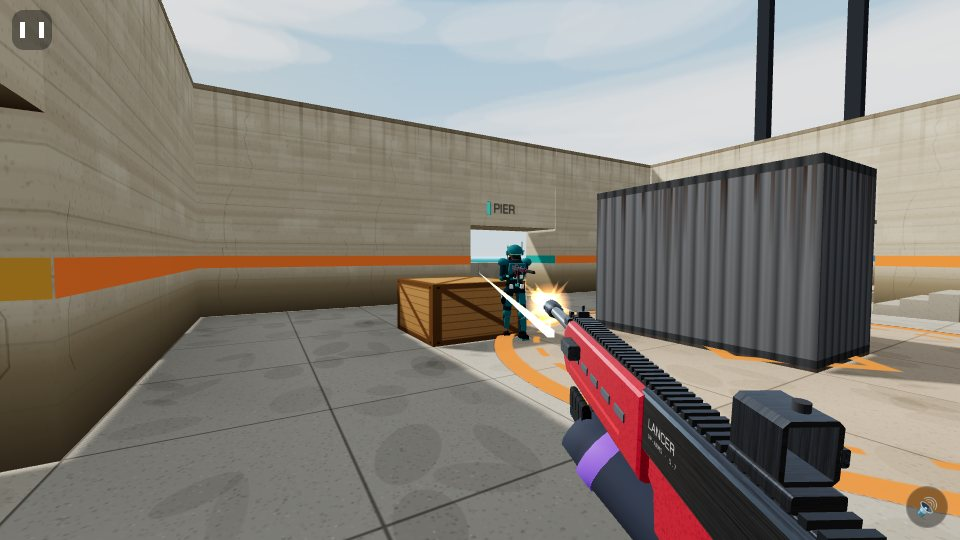
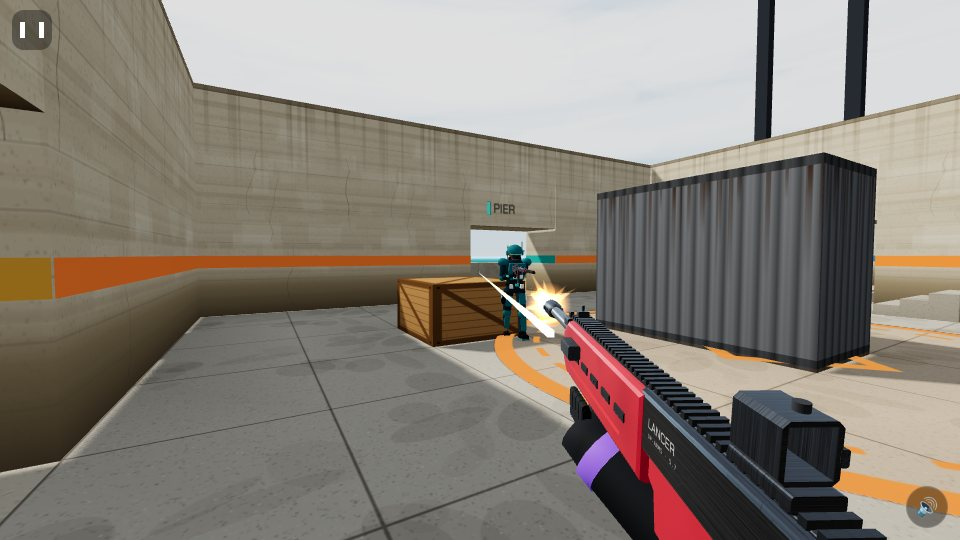
Duelpoint: revamp gun textures
Seamless 512 px finishes with relief, roughness and metalness maps:
brushed and scratched steel, stippled polymer, knurled rubber, mottled
cerakote, anodised aluminium, walnut with grain and pores, clear-coated
carbon twill, digital camo, and battle-worn paint chipped to bare metal.
Each gun gets its own finish. New cover and screenshots.

Claude-Session: https://claude.ai/code/session_015d1ng3DQVJS16EdJCEDKYL

diff --git a/pulsebox/public/games/duelpoint.html b/pulsebox/public/games/duelpoint.html
@@ -1353,54 +1353,115 @@ const GAME = {
      reflection map. The kit and the guns are in gunModel below; viewAnim moves the working parts in first person. */
   let GTX = null;
   const DECAL = {}, GMAT = {}, ICON = {};
+  /* Finishes. Every texture tiles seamlessly and is drawn once from the seeded random stream. Colour maps carry the look;
+     a second "data" canvas per finish carries relief in red (read as a bump map), roughness in green and metalness in blue,
+     so wear, smudges and scratches catch the light differently from the paint around them. */
   function gunTex() {
     if (GTX) return GTX;
-    const T = (w, h, fn, rep) => canvasTex(w, h, fn, rep);
+    const T = (w, h, fn, rep) => canvasTex(w, h, fn, rep), D = (w, h, fn, rep) => { const t = canvasTex(w, h, fn, rep); t.encoding = THREE.LinearEncoding; return t; };
+    const wrap = (w, h, x, y, fn) => { for (const dx of [-w, 0, w]) for (const dy of [-h, 0, h]) fn(x + dx, y + dy); };   // draw across the seams
+    const blots = (g, w, h, n, r0, r1, rgb, a) => { for (let i = 0; i < n; i++) { const x = R() * w, y = R() * h, r = r0 + R() * (r1 - r0), al = a * (.4 + R() * .6);
+      wrap(w, h, x, y, (px, py) => { if (px < -r || py < -r || px > w + r || py > h + r) return; const gr = g.createRadialGradient(px, py, 0, px, py, r); gr.addColorStop(0, `rgba(${rgb},${al})`); gr.addColorStop(1, `rgba(${rgb},0)`); g.fillStyle = gr; g.fillRect(px - r, py - r, r * 2, r * 2); }); } };
+    const specks = (g, w, h, n, rgbA, rgbB, a, s = 1) => { for (let i = 0; i < n; i++) { g.fillStyle = `rgba(${R() < .5 ? rgbA : rgbB},${a * R()})`; g.fillRect(Math.floor(R() * w), Math.floor(R() * h), s, s); } };
+    const scratches = (g, w, h, n, rgb, a, l0, l1, ang) => { g.lineCap = 'round'; for (let i = 0; i < n; i++) { const x = R() * w, y = R() * h, l = l0 + R() * (l1 - l0), t = ang == null ? R() * Math.PI : ang + (R() - .5) * .5, bend = (R() - .5) * l * .3;
+      g.strokeStyle = `rgba(${rgb},${a * (.5 + R() * .5)})`; g.lineWidth = .6 + R() * .9; wrap(w, h, x, y, (px, py) => { g.beginPath(); g.moveTo(px, py); g.quadraticCurveTo(px + Math.cos(t) * l / 2 - Math.sin(t) * bend, py + Math.sin(t) * l / 2 + Math.cos(t) * bend, px + Math.cos(t) * l, py + Math.sin(t) * l); g.stroke(); }); } };
+    const S = 512;
     GTX = {
-      brushed: T(256, 256, (g, w, h) => { g.fillStyle = '#8c8c8c'; g.fillRect(0, 0, w, h); for (let i = 0; i < 1100; i++) { g.fillStyle = R() < .5 ? `rgba(0,0,0,${.04 + R() * .09})` : `rgba(255,255,255,${.04 + R() * .08})`; g.fillRect(R() * w - 40, R() * h, 30 + R() * 170, 1); } }, [6, 6]),
-      stipple: T(128, 128, (g, w, h) => { g.fillStyle = '#7c7c7c'; g.fillRect(0, 0, w, h); for (let i = 0; i < 1600; i++) { g.fillStyle = R() < .5 ? 'rgba(0,0,0,.28)' : 'rgba(255,255,255,.13)'; g.beginPath(); g.arc(R() * w, R() * h, .6 + R() * 1.3, 0, 7); g.fill(); } }, [12, 12]),
-      cera: T(128, 128, (g, w, h) => { g.fillStyle = '#d0d0d0'; g.fillRect(0, 0, w, h); for (let i = 0; i < 2600; i++) { g.fillStyle = R() < .5 ? 'rgba(0,0,0,.07)' : 'rgba(255,255,255,.08)'; g.fillRect(R() * w, R() * h, 1 + R() * 2, 1 + R() * 2); } }, [10, 10]),
-      wood: T(256, 256, (g, w, h) => { g.fillStyle = '#80502a'; g.fillRect(0, 0, w, h); for (let i = 0; i < 80; i++) { const y = R() * h; g.strokeStyle = `rgba(${R() < .55 ? '45,22,8' : '170,110,60'},${.14 + R() * .26})`; g.lineWidth = .5 + R() * 2.5; g.beginPath(); g.moveTo(0, y); for (let x = 0; x <= w; x += 12) g.lineTo(x, y + Math.sin(x * .03 + i) * 4 + Math.sin(x * .12 + i * 2) * 1.4); g.stroke(); } }, [5, 5]),
-      carbon: T(64, 64, (g) => { for (let i = 0; i < 4; i++) for (let j = 0; j < 4; j++) { const on = (i + j) % 2, gr = on ? g.createLinearGradient(i * 16, 0, i * 16 + 16, 0) : g.createLinearGradient(0, j * 16, 0, j * 16 + 16); gr.addColorStop(0, '#3a3a40'); gr.addColorStop(.5, '#77777f'); gr.addColorStop(1, '#3a3a40'); g.fillStyle = gr; g.fillRect(i * 16, j * 16, 16, 16); } }, [36, 36]),
-      camo: T(128, 128, (g, w, h) => { g.fillStyle = '#2a8a75'; g.fillRect(0, 0, w, h); const cs = ['#3ee6c1', '#1b5248', '#1f2a33', '#30b496']; for (let i = 0; i < 170; i++) { g.fillStyle = cs[i % 4]; g.fillRect(Math.floor(R() * 16) * 8, Math.floor(R() * 16) * 8, 8 * (1 + Math.floor(R() * 3)), 8 * (1 + Math.floor(R() * 2))); } }, [8, 8]),
-      holes: T(64, 64, (g, w, h) => { g.fillStyle = '#5a5e66'; g.fillRect(0, 0, w, h); g.fillStyle = '#0a0b0d'; for (const [x, y] of [[16, 16], [48, 16], [16, 48], [48, 48]]) { g.beginPath(); g.arc(x, y, 9, 0, 7); g.fill(); } }, [1, 10]),
+      // machined steel: long brushing marks, faint soft patches, a few fine scratches
+      brushed: T(S, S, (g, w, h) => { g.fillStyle = '#8a8a8a'; g.fillRect(0, 0, w, h);
+        for (let i = 0; i < 3200; i++) { const y = Math.floor(R() * h), x = R() * w, l = 30 + R() * 340; g.fillStyle = R() < .5 ? `rgba(0,0,0,${.03 + R() * .08})` : `rgba(255,255,255,${.03 + R() * .07})`; g.fillRect(x, y, l, 1); g.fillRect(x - w, y, l, 1); }
+        blots(g, w, h, 16, 50, 150, '255,255,255', .05); blots(g, w, h, 16, 50, 150, '0,0,0', .06); scratches(g, w, h, 34, '230,230,230', .35, 8, 60); }, [3, 3]),
+      // its data: shinier along fresh scratches, duller where hands have smudged it
+      metalD: D(S, S, (g, w, h) => { g.fillStyle = 'rgb(128,200,255)'; g.fillRect(0, 0, w, h); for (let i = 0; i < 1400; i++) { const y = Math.floor(R() * h); g.fillStyle = `rgba(128,${170 + R() * 60 | 0},255,.5)`; g.fillRect(R() * w, y, 40 + R() * 300, 1); }
+        blots(g, w, h, 22, 30, 110, '128,255,255', .45); scratches(g, w, h, 34, '100,90,255', .9, 8, 60); }, [3, 3]),
+      // stippled polymer: raised dots, used for colour and relief
+      stipple: T(256, 256, (g, w, h) => { g.fillStyle = '#7a7a7a'; g.fillRect(0, 0, w, h); for (let i = 0; i < 3400; i++) { const x = R() * w, y = R() * h, r = .7 + R() * 1.6, c = R() < .55 ? 'rgba(20,20,20,.32)' : 'rgba(255,255,255,.2)'; g.fillStyle = c; wrap(w, h, x, y, (px, py) => { if (px < -3 || py < -3 || px > w + 3 || py > h + 3) return; g.beginPath(); g.arc(px, py, r, 0, 7); g.fill(); }); }
+        blots(g, w, h, 10, 30, 90, '0,0,0', .08); }, [14, 14]),
+      // diamond knurling for rubber and grip panels
+      knurl: T(128, 128, (g, w, h) => { g.fillStyle = '#8a8a8a'; g.fillRect(0, 0, w, h); g.lineWidth = 3.2; g.strokeStyle = 'rgba(0,0,0,.6)'; for (let i = -8; i <= 8; i++) { g.beginPath(); g.moveTo(i * 16, 0); g.lineTo(i * 16 + h, h); g.stroke(); g.beginPath(); g.moveTo(i * 16, h); g.lineTo(i * 16 + h, 0); g.stroke(); }
+        g.lineWidth = 1; g.strokeStyle = 'rgba(255,255,255,.18)'; for (let i = -8; i <= 8; i++) { g.beginPath(); g.moveTo(i * 16 + 2, 0); g.lineTo(i * 16 + 2 + h, h); g.stroke(); } specks(g, w, h, 900, '0,0,0', '255,255,255', .15); }, [60, 60]),
+      // cerakote: a sprayed ceramic paint, matte, softly mottled, with hairline scuffs
+      cera: T(S, S, (g, w, h) => { g.fillStyle = '#d6d6d6'; g.fillRect(0, 0, w, h); blots(g, w, h, 40, 30, 140, '0,0,0', .05); blots(g, w, h, 30, 30, 120, '255,255,255', .06);
+        specks(g, w, h, 16000, '0,0,0', '255,255,255', .09); scratches(g, w, h, 30, '255,255,255', .32, 6, 40); }, [4, 4]),
+      ceraD: D(S, S, (g, w, h) => { g.fillStyle = 'rgb(140,215,255)'; g.fillRect(0, 0, w, h); specks(g, w, h, 12000, '110,230,255', '170,200,255', .5); blots(g, w, h, 30, 40, 140, '140,170,255', .35); scratches(g, w, h, 30, '110,140,255', .9, 6, 40); }, [4, 4]),
+      // anodised aluminium: smooth, faint machining lines, a fine sparkle
+      anod: T(256, 256, (g, w, h) => { g.fillStyle = '#d2d2d2'; g.fillRect(0, 0, w, h); for (let y = 0; y < h; y += 2) { g.fillStyle = `rgba(${R() < .5 ? '0,0,0' : '255,255,255'},${.015 + R() * .03})`; g.fillRect(0, y, w, 1); }
+        specks(g, w, h, 5000, '0,0,0', '255,255,255', .07); blots(g, w, h, 10, 30, 100, '255,255,255', .05); }, [6, 6]),
+      anodD: D(256, 256, (g, w, h) => { g.fillStyle = 'rgb(128,120,255)'; g.fillRect(0, 0, w, h); specks(g, w, h, 4000, '128,80,255', '128,160,255', .6); blots(g, w, h, 12, 30, 90, '128,175,255', .4); }, [6, 6]),
+      // walnut: wavy grain with darker late-wood lines, ray flecks and open pores; also its own relief
+      wood: T(S, S, (g, w, h) => { const gr = g.createLinearGradient(0, 0, 0, h); gr.addColorStop(0, '#8a5630'); gr.addColorStop(.5, '#7a4826'); gr.addColorStop(1, '#8a5630'); g.fillStyle = gr; g.fillRect(0, 0, w, h);
+        const k1 = 2 * Math.PI / w; for (let i = 0; i < 170; i++) { const y = R() * h, a1 = 2 + R() * 7, a2 = R() * 2.5, p1 = R() * 7, p2 = R() * 7, f1 = 1 + Math.floor(R() * 2), f2 = 3 + Math.floor(R() * 4), dark = R() < .62;
+          g.strokeStyle = dark ? `rgba(48,22,8,${.12 + R() * .3})` : `rgba(190,128,70,${.08 + R() * .2})`; g.lineWidth = .6 + R() * (dark ? 3 : 2);
+          for (const dy of [-h, 0, h]) { g.beginPath(); for (let x = 0; x <= w; x += 8) { const yy = y + dy + Math.sin(x * k1 * f1 + p1) * a1 + Math.sin(x * k1 * f2 + p2) * a2; x ? g.lineTo(x, yy) : g.moveTo(x, yy); } g.stroke(); } }
+        for (let i = 0; i < 4000; i++) { g.fillStyle = `rgba(30,12,4,${.15 + R() * .3})`; g.fillRect(R() * w, R() * h, 2 + R() * 6, 1); }
+        for (let i = 0; i < 260; i++) { g.fillStyle = `rgba(220,160,100,${.06 + R() * .1})`; g.fillRect(R() * w, R() * h, 4 + R() * 10, 2 + R() * 2); }
+        blots(g, w, h, 14, 60, 200, '40,16,4', .12); blots(g, w, h, 10, 60, 160, '255,200,140', .06); }, [2.5, 2.5]),
+      // carbon fibre, 2/2 twill: each tow shaded round its width with fine filaments along it
+      carbon: T(256, 256, (g) => { const c = 16; for (let i = 0; i < 16; i++) for (let j = 0; j < 16; j++) { const hz = (i + j) % 4 < 2, x = i * c, y = j * c, gr = hz ? g.createLinearGradient(0, y, 0, y + c) : g.createLinearGradient(x, 0, x + c, 0);
+          gr.addColorStop(0, '#2a2a2f'); gr.addColorStop(.4, '#55555d'); gr.addColorStop(.55, '#606068'); gr.addColorStop(1, '#2e2e33'); g.fillStyle = gr; g.fillRect(x, y, c, c);
+          g.fillStyle = 'rgba(0,0,0,.18)'; for (let f = 1; f < c; f += 2) hz ? g.fillRect(x, y + f, c, .5) : g.fillRect(x + f, y, .5, c); } }, [14, 14]),
+      // digital camouflage over a teal base, lightly worn
+      camo: T(256, 256, (g, w, h) => { g.fillStyle = '#2a8a75'; g.fillRect(0, 0, w, h); const cs = ['#3ee6c1', '#1b5248', '#1f2a33', '#30b496'];
+        for (const [n, s] of [[90, 24], [160, 16], [260, 8]]) for (let i = 0; i < n; i++) { g.fillStyle = cs[Math.floor(R() * 4)]; const x = Math.floor(R() * w / 8) * 8, y = Math.floor(R() * h / 8) * 8, bw = s * (1 + Math.floor(R() * 2)), bh = s; wrap(w, h, x, y, (px, py) => g.fillRect(px, py, bw, bh)); }
+        specks(g, w, h, 6000, '0,0,0', '255,255,255', .12); scratches(g, w, h, 18, '210,240,235', .35, 6, 30); }, [7, 7]),
+      // vent holes: chamfered, with a lit lower lip
+      holes: T(128, 128, (g, w, h) => { g.fillStyle = '#50545c'; g.fillRect(0, 0, w, h); specks(g, w, h, 1500, '0,0,0', '255,255,255', .1);
+        for (const [x, y] of [[32, 32], [96, 32], [32, 96], [96, 96]]) { const gr = g.createRadialGradient(x, y + 2, 10, x, y, 22); gr.addColorStop(0, '#08090b'); gr.addColorStop(.7, '#08090b'); gr.addColorStop(.82, '#9aa0aa'); gr.addColorStop(1, 'rgba(80,84,92,0)'); g.fillStyle = gr; g.beginPath(); g.arc(x, y, 22, 0, 7); g.fill(); } }, [1, 10]),
     };
     return GTX;
   }
+  // battle-worn paint in a gun's own colour: chipped through to bare metal on corners and high spots, with scuffs
+  const WORN = {};
+  function wornTex(col) {
+    if (WORN[col]) return WORN[col];
+    const S = 512, chips = [], c = new THREE.Color(col);
+    for (let i = 0; i < 46; i++) { const cx = R() * S, cy = R() * S, n = 3 + Math.floor(R() * 8); for (let j = 0; j < n; j++) { const x = cx + (R() - .5) * 46, y = cy + (R() - .5) * 20, r = .8 + R() * (R() < .1 ? 6 : 2.6), k = 6 + Math.floor(R() * 4), pts = []; for (let q = 0; q < k; q++) { const a = q / k * TAU, rr = r * (.5 + R() * .7); pts.push([x + Math.cos(a) * rr * 1.5, y + Math.sin(a) * rr]); } chips.push(pts); } }
+    const scuffs = []; for (let i = 0; i < 46; i++) scuffs.push([R() * S, R() * S, 8 + R() * 50, (R() - .5) * .6]);
+    const draw = (g, paint, metal, scuff, rim) => { g.fillStyle = paint; g.fillRect(0, 0, S, S); for (const [x, y, l, t] of scuffs) for (const dx of [-S, 0, S]) for (const dy of [-S, 0, S]) { g.strokeStyle = scuff; g.lineWidth = 1; g.beginPath(); g.moveTo(x + dx, y + dy); g.lineTo(x + dx + Math.cos(t) * l, y + dy + Math.sin(t) * l); g.stroke(); }
+      for (const pts of chips) for (const dx of [-S, 0, S]) for (const dy of [-S, 0, S]) { g.beginPath(); pts.forEach(([x, y], i) => i ? g.lineTo(x + dx, y + dy) : g.moveTo(x + dx, y + dy)); g.closePath(); if (rim) { g.strokeStyle = rim; g.lineWidth = 1.6; g.stroke(); } g.fillStyle = metal; g.fill(); } };
+    const hex = '#' + c.getHexString(), map = canvasTex(S, S, (g, w, h) => { draw(g, hex, '#9a9ea6', 'rgba(255,255,255,.3)', 'rgba(0,0,0,.35)');
+      g.globalCompositeOperation = 'multiply'; const n = canvasTex.noise || (canvasTex.noise = (() => { const cv = document.createElement('canvas'); cv.width = cv.height = 256; const q = cv.getContext('2d'); q.fillStyle = '#fff'; q.fillRect(0, 0, 256, 256); for (let i = 0; i < 9000; i++) { const v = 205 + R() * 50 | 0; q.fillStyle = `rgb(${v},${v},${v})`; q.fillRect(R() * 256 | 0, R() * 256 | 0, 1, 1); } return cv; })());
+      for (const x of [0, 256]) for (const y of [0, 256]) g.drawImage(n, x, y); g.globalCompositeOperation = 'source-over'; }, [3, 3]);
+    const data = canvasTex(S, S, g => draw(g, 'rgb(200,225,50)', 'rgb(90,110,170)', 'rgba(170,150,120,.8)', 'rgb(150,230,50)'), [3, 3]); data.encoding = THREE.LinearEncoding;
+    return WORN[col] = { map, data };
+  }
+  const FINISH = { knife: 'cera', pip: 'cera', stub: 'wood', wasp: 'cera', quill: 'cera', hammer: 'wood', gnat: 'anod', hornet: 'camo', breaker: 'wood', thresher: 'worn', mako: 'anod', paladin: 'worn', vesper: 'carbon', lancer: 'cera', kite: 'cera', longbow: 'carbon', torrent: 'worn' };
+  const BUMP = .0007;   // relief strength; small, because a gun is small
   function gmats(k) {
     if (GMAT[k]) return GMAT[k];
     const W = GUNS[k], T = gunTex();
-    const std = (o, ei = 1) => { const m = new THREE.MeshStandardMaterial(o); if (X && X.env) { m.envMap = X.env; m.envMapIntensity = ei; } return m; };
+    const env = (m, ei) => { if (X && X.env) { m.envMap = X.env; m.envMapIntensity = ei; } return m; };
+    const std = (o, ei = 1) => env(new THREE.MeshStandardMaterial(o), ei);
     const basic = c => new THREE.MeshBasicMaterial({ color: c, toneMapped: false });
-    const fin = {
-      pip: std({ color: '#8f99a6', map: T.cera, roughness: .5, metalness: .35 }),
-      hornet: std({ color: '#ffffff', map: T.camo, roughness: .62, metalness: .1 }, .5),
-      breaker: std({ color: '#ffffff', map: T.wood, roughness: .45, metalness: 0 }, .45),
-      lancer: std({ color: '#d4323e', map: T.cera, roughness: .42, metalness: .3 }),
-      longbow: std({ color: '#9468dc', map: T.carbon, roughness: .3, metalness: .45 }, 1.1),
-      stub: std({ color: '#ffffff', map: T.wood, roughness: .45 }, .45), hammer: std({ color: '#ffd9a8', map: T.wood, roughness: .4 }, .5),
-      vesper: std({ color: '#d0509a', map: T.carbon, roughness: .3, metalness: .45 }, 1.1),
-    }[k] || std({ color: W.col, map: T.cera, roughness: .45, metalness: .3 });
+    const col = { pip: '#8f99a6', lancer: '#d4323e', longbow: '#9468dc', vesper: '#d0509a', hammer: '#ffd9a8', stub: '#ffffff', breaker: '#ffffff' }[k] || W.col, fk = FINISH[k] || 'cera';
+    let fin;
+    if (fk === 'wood') fin = std({ color: col, map: T.wood, bumpMap: T.wood, bumpScale: BUMP * 1.4, roughness: .42, metalness: 0 }, .5);
+    else if (fk === 'carbon') fin = env(new THREE.MeshPhysicalMaterial({ color: col, map: T.carbon, bumpMap: T.carbon, bumpScale: BUMP * .8, roughness: .4, metalness: .3, clearcoat: 1, clearcoatRoughness: .07 }), .9);
+    else if (fk === 'camo') fin = std({ color: '#ffffff', map: T.camo, roughnessMap: T.ceraD, bumpMap: T.ceraD, bumpScale: BUMP * .5, roughness: .75, metalness: .08 }, .5);
+    else if (fk === 'anod') fin = std({ color: col, map: T.anod, roughnessMap: T.anodD, roughness: .55, metalness: .55 }, .9);
+    else if (fk === 'worn') { const wt = wornTex(col); fin = std({ color: '#ffffff', map: wt.map, roughnessMap: wt.data, metalnessMap: wt.data, bumpMap: wt.data, bumpScale: BUMP * 1.2, roughness: 1, metalness: 1 }, .7); }
+    else fin = std({ color: col, map: T.cera, roughnessMap: T.ceraD, bumpMap: T.ceraD, bumpScale: BUMP * .5, roughness: .62, metalness: .25 }, .6);
+    const metalish = (c, r, mt, ei) => std({ color: c, map: T.brushed, roughnessMap: T.metalD, bumpMap: T.metalD, bumpScale: BUMP * .4, metalness: mt, roughness: r }, ei);
     const M2 = GMAT[k] = {
       fin,
-      metal: std({ color: '#3b4049', map: T.brushed, metalness: .85, roughness: .32 }),
-      dark: std({ color: '#1d2026', map: T.brushed, metalness: .7, roughness: .42 }),
-      steel: std({ color: '#a2a9b3', map: T.brushed, metalness: .95, roughness: .2 }, 1.2),
-      poly: std({ color: '#2b2e35', map: T.stipple, roughness: .86, metalness: .05 }, .4),
-      rubber: std({ color: '#121316', roughness: .95 }, .2),
-      heat: std({ color: '#ffffff', map: T.holes, metalness: .7, roughness: .4 }),
-      acc: std({ color: W.col, roughness: .4, metalness: .3 }),
-      brass: std({ color: '#d9a441', metalness: 1, roughness: .26 }, 1.3),
+      metal: metalish('#3b4049', .42, .85, 1),
+      dark: metalish('#1d2026', .52, .7, 1),
+      steel: metalish('#a2a9b3', .26, .95, 1.2),
+      poly: std({ color: '#2b2e35', map: T.stipple, bumpMap: T.stipple, bumpScale: BUMP, roughness: .86, metalness: .05 }, .4),
+      rubber: std({ color: '#1b1c20', map: T.knurl, bumpMap: T.knurl, bumpScale: BUMP * 1.2, roughness: .95 }, .2),
+      heat: std({ color: '#ffffff', map: T.holes, bumpMap: T.holes, bumpScale: BUMP * 2, metalness: .7, roughness: .4 }),
+      acc: std({ color: W.col, map: T.anod, roughnessMap: T.anodD, roughness: .5, metalness: .4 }, .8),
+      brass: std({ color: '#d9a441', map: T.brushed, metalness: 1, roughness: .26 }, 1.3),
       shell: std({ color: '#b8262a', roughness: .5 }, .5),
       lens: std({ color: '#0d2633', metalness: 1, roughness: .02, emissive: k === 'longbow' ? '#3a1866' : '#0b3550', emissiveIntensity: .8 }, 2),
       glass: std({ color: '#9fdcff', transparent: true, opacity: .2, metalness: 1, roughness: 0, depthWrite: false }, 2),
       glow: basic(W.col), tritium: basic('#7dff9a'), red: basic('#ff2a3a'), lamp: basic('#fff4d6'),
-      glove: std({ color: '#24272e', map: T.stipple, roughness: .9 }, .3),
-      sleeve: std({ color: '#323a4a', roughness: .8 }, .3),
+      glove: std({ color: '#24272e', map: T.stipple, bumpMap: T.stipple, bumpScale: BUMP * .7, roughness: .9 }, .3),
+      sleeve: std({ color: '#323a4a', map: T.knurl, roughness: .8 }, .3),
     };
     // plain colours are read as linear light, which washes strong colours out: convert the ones meant to be seen as picked
     for (const q of ['fin', 'acc', 'glow', 'tritium', 'red', 'lamp', 'sleeve', 'glove', 'shell', 'brass']) M2[q].color.convertSRGBToLinear();
-    M2.fin.envMapIntensity = Math.min(M2.fin.envMapIntensity, .6);
+    M2.fin.envMapIntensity = Math.min(M2.fin.envMapIntensity, fk === 'carbon' ? .9 : .6);
     return M2;
   }
   // merge the plain meshes under a group into one mesh per material, so a gun is a handful of draw calls, not hundreds
@@ -1462,7 +1523,7 @@ const GAME = {
       for (const s of [1, -1]) add(new THREE.PlaneGeometry(w, h), mat, sx * s, y, z, 0, s * Math.PI / 2, 0);
     };
     // vented shroud: holes kept round by scaling the pattern to the tube (8 rows round it, one every 2.4 cm along it)
-    const vent = L => { const key = 'vent' + Math.round(L * 1000); if (!GMAT[key]) { const t = gunTex().holes.clone(); t.needsUpdate = true; t.repeat.set(4, Math.max(2, Math.round(L / .024))); GMAT[key] = new THREE.MeshStandardMaterial({ color: '#ffffff', map: t, metalness: .7, roughness: .4, envMap: X && X.env, envMapIntensity: .8 }); } return GMAT[key]; };
+    const vent = L => { const key = 'vent' + Math.round(L * 1000); if (!GMAT[key]) { const t = gunTex().holes.clone(); t.needsUpdate = true; t.repeat.set(4, Math.max(2, Math.round(L / .024))); GMAT[key] = new THREE.MeshStandardMaterial({ color: '#ffffff', map: t, bumpMap: t, bumpScale: BUMP * 2, metalness: .7, roughness: .4, envMap: X && X.env, envMapIntensity: .8 }); } return GMAT[key]; };
     const group = (x, y, z, rx = 0) => { const g = new THREE.Group(); g.position.set(x, y, z); g.rotation.x = rx; g.userData.p0 = g.position.clone(); G.add(g); return g; };
     // sights and gadgets
     const holo = (z, y) => {   // a window sight: hooded frame, glass, a ring reticle

diff --git a/pulsebox/src/games/duelpoint/76-guns.js b/pulsebox/src/games/duelpoint/76-guns.js
@@ -3,54 +3,115 @@
      reflection map. The kit and the guns are in gunModel below; viewAnim moves the working parts in first person. */
   let GTX = null;
   const DECAL = {}, GMAT = {}, ICON = {};
+  /* Finishes. Every texture tiles seamlessly and is drawn once from the seeded random stream. Colour maps carry the look;
+     a second "data" canvas per finish carries relief in red (read as a bump map), roughness in green and metalness in blue,
+     so wear, smudges and scratches catch the light differently from the paint around them. */
   function gunTex() {
     if (GTX) return GTX;
-    const T = (w, h, fn, rep) => canvasTex(w, h, fn, rep);
+    const T = (w, h, fn, rep) => canvasTex(w, h, fn, rep), D = (w, h, fn, rep) => { const t = canvasTex(w, h, fn, rep); t.encoding = THREE.LinearEncoding; return t; };
+    const wrap = (w, h, x, y, fn) => { for (const dx of [-w, 0, w]) for (const dy of [-h, 0, h]) fn(x + dx, y + dy); };   // draw across the seams
+    const blots = (g, w, h, n, r0, r1, rgb, a) => { for (let i = 0; i < n; i++) { const x = R() * w, y = R() * h, r = r0 + R() * (r1 - r0), al = a * (.4 + R() * .6);
+      wrap(w, h, x, y, (px, py) => { if (px < -r || py < -r || px > w + r || py > h + r) return; const gr = g.createRadialGradient(px, py, 0, px, py, r); gr.addColorStop(0, `rgba(${rgb},${al})`); gr.addColorStop(1, `rgba(${rgb},0)`); g.fillStyle = gr; g.fillRect(px - r, py - r, r * 2, r * 2); }); } };
+    const specks = (g, w, h, n, rgbA, rgbB, a, s = 1) => { for (let i = 0; i < n; i++) { g.fillStyle = `rgba(${R() < .5 ? rgbA : rgbB},${a * R()})`; g.fillRect(Math.floor(R() * w), Math.floor(R() * h), s, s); } };
+    const scratches = (g, w, h, n, rgb, a, l0, l1, ang) => { g.lineCap = 'round'; for (let i = 0; i < n; i++) { const x = R() * w, y = R() * h, l = l0 + R() * (l1 - l0), t = ang == null ? R() * Math.PI : ang + (R() - .5) * .5, bend = (R() - .5) * l * .3;
+      g.strokeStyle = `rgba(${rgb},${a * (.5 + R() * .5)})`; g.lineWidth = .6 + R() * .9; wrap(w, h, x, y, (px, py) => { g.beginPath(); g.moveTo(px, py); g.quadraticCurveTo(px + Math.cos(t) * l / 2 - Math.sin(t) * bend, py + Math.sin(t) * l / 2 + Math.cos(t) * bend, px + Math.cos(t) * l, py + Math.sin(t) * l); g.stroke(); }); } };
+    const S = 512;
     GTX = {
-      brushed: T(256, 256, (g, w, h) => { g.fillStyle = '#8c8c8c'; g.fillRect(0, 0, w, h); for (let i = 0; i < 1100; i++) { g.fillStyle = R() < .5 ? `rgba(0,0,0,${.04 + R() * .09})` : `rgba(255,255,255,${.04 + R() * .08})`; g.fillRect(R() * w - 40, R() * h, 30 + R() * 170, 1); } }, [6, 6]),
-      stipple: T(128, 128, (g, w, h) => { g.fillStyle = '#7c7c7c'; g.fillRect(0, 0, w, h); for (let i = 0; i < 1600; i++) { g.fillStyle = R() < .5 ? 'rgba(0,0,0,.28)' : 'rgba(255,255,255,.13)'; g.beginPath(); g.arc(R() * w, R() * h, .6 + R() * 1.3, 0, 7); g.fill(); } }, [12, 12]),
-      cera: T(128, 128, (g, w, h) => { g.fillStyle = '#d0d0d0'; g.fillRect(0, 0, w, h); for (let i = 0; i < 2600; i++) { g.fillStyle = R() < .5 ? 'rgba(0,0,0,.07)' : 'rgba(255,255,255,.08)'; g.fillRect(R() * w, R() * h, 1 + R() * 2, 1 + R() * 2); } }, [10, 10]),
-      wood: T(256, 256, (g, w, h) => { g.fillStyle = '#80502a'; g.fillRect(0, 0, w, h); for (let i = 0; i < 80; i++) { const y = R() * h; g.strokeStyle = `rgba(${R() < .55 ? '45,22,8' : '170,110,60'},${.14 + R() * .26})`; g.lineWidth = .5 + R() * 2.5; g.beginPath(); g.moveTo(0, y); for (let x = 0; x <= w; x += 12) g.lineTo(x, y + Math.sin(x * .03 + i) * 4 + Math.sin(x * .12 + i * 2) * 1.4); g.stroke(); } }, [5, 5]),
-      carbon: T(64, 64, (g) => { for (let i = 0; i < 4; i++) for (let j = 0; j < 4; j++) { const on = (i + j) % 2, gr = on ? g.createLinearGradient(i * 16, 0, i * 16 + 16, 0) : g.createLinearGradient(0, j * 16, 0, j * 16 + 16); gr.addColorStop(0, '#3a3a40'); gr.addColorStop(.5, '#77777f'); gr.addColorStop(1, '#3a3a40'); g.fillStyle = gr; g.fillRect(i * 16, j * 16, 16, 16); } }, [36, 36]),
-      camo: T(128, 128, (g, w, h) => { g.fillStyle = '#2a8a75'; g.fillRect(0, 0, w, h); const cs = ['#3ee6c1', '#1b5248', '#1f2a33', '#30b496']; for (let i = 0; i < 170; i++) { g.fillStyle = cs[i % 4]; g.fillRect(Math.floor(R() * 16) * 8, Math.floor(R() * 16) * 8, 8 * (1 + Math.floor(R() * 3)), 8 * (1 + Math.floor(R() * 2))); } }, [8, 8]),
-      holes: T(64, 64, (g, w, h) => { g.fillStyle = '#5a5e66'; g.fillRect(0, 0, w, h); g.fillStyle = '#0a0b0d'; for (const [x, y] of [[16, 16], [48, 16], [16, 48], [48, 48]]) { g.beginPath(); g.arc(x, y, 9, 0, 7); g.fill(); } }, [1, 10]),
+      // machined steel: long brushing marks, faint soft patches, a few fine scratches
+      brushed: T(S, S, (g, w, h) => { g.fillStyle = '#8a8a8a'; g.fillRect(0, 0, w, h);
+        for (let i = 0; i < 3200; i++) { const y = Math.floor(R() * h), x = R() * w, l = 30 + R() * 340; g.fillStyle = R() < .5 ? `rgba(0,0,0,${.03 + R() * .08})` : `rgba(255,255,255,${.03 + R() * .07})`; g.fillRect(x, y, l, 1); g.fillRect(x - w, y, l, 1); }
+        blots(g, w, h, 16, 50, 150, '255,255,255', .05); blots(g, w, h, 16, 50, 150, '0,0,0', .06); scratches(g, w, h, 34, '230,230,230', .35, 8, 60); }, [3, 3]),
+      // its data: shinier along fresh scratches, duller where hands have smudged it
+      metalD: D(S, S, (g, w, h) => { g.fillStyle = 'rgb(128,200,255)'; g.fillRect(0, 0, w, h); for (let i = 0; i < 1400; i++) { const y = Math.floor(R() * h); g.fillStyle = `rgba(128,${170 + R() * 60 | 0},255,.5)`; g.fillRect(R() * w, y, 40 + R() * 300, 1); }
+        blots(g, w, h, 22, 30, 110, '128,255,255', .45); scratches(g, w, h, 34, '100,90,255', .9, 8, 60); }, [3, 3]),
+      // stippled polymer: raised dots, used for colour and relief
+      stipple: T(256, 256, (g, w, h) => { g.fillStyle = '#7a7a7a'; g.fillRect(0, 0, w, h); for (let i = 0; i < 3400; i++) { const x = R() * w, y = R() * h, r = .7 + R() * 1.6, c = R() < .55 ? 'rgba(20,20,20,.32)' : 'rgba(255,255,255,.2)'; g.fillStyle = c; wrap(w, h, x, y, (px, py) => { if (px < -3 || py < -3 || px > w + 3 || py > h + 3) return; g.beginPath(); g.arc(px, py, r, 0, 7); g.fill(); }); }
+        blots(g, w, h, 10, 30, 90, '0,0,0', .08); }, [14, 14]),
+      // diamond knurling for rubber and grip panels
+      knurl: T(128, 128, (g, w, h) => { g.fillStyle = '#8a8a8a'; g.fillRect(0, 0, w, h); g.lineWidth = 3.2; g.strokeStyle = 'rgba(0,0,0,.6)'; for (let i = -8; i <= 8; i++) { g.beginPath(); g.moveTo(i * 16, 0); g.lineTo(i * 16 + h, h); g.stroke(); g.beginPath(); g.moveTo(i * 16, h); g.lineTo(i * 16 + h, 0); g.stroke(); }
+        g.lineWidth = 1; g.strokeStyle = 'rgba(255,255,255,.18)'; for (let i = -8; i <= 8; i++) { g.beginPath(); g.moveTo(i * 16 + 2, 0); g.lineTo(i * 16 + 2 + h, h); g.stroke(); } specks(g, w, h, 900, '0,0,0', '255,255,255', .15); }, [60, 60]),
+      // cerakote: a sprayed ceramic paint, matte, softly mottled, with hairline scuffs
+      cera: T(S, S, (g, w, h) => { g.fillStyle = '#d6d6d6'; g.fillRect(0, 0, w, h); blots(g, w, h, 40, 30, 140, '0,0,0', .05); blots(g, w, h, 30, 30, 120, '255,255,255', .06);
+        specks(g, w, h, 16000, '0,0,0', '255,255,255', .09); scratches(g, w, h, 30, '255,255,255', .32, 6, 40); }, [4, 4]),
+      ceraD: D(S, S, (g, w, h) => { g.fillStyle = 'rgb(140,215,255)'; g.fillRect(0, 0, w, h); specks(g, w, h, 12000, '110,230,255', '170,200,255', .5); blots(g, w, h, 30, 40, 140, '140,170,255', .35); scratches(g, w, h, 30, '110,140,255', .9, 6, 40); }, [4, 4]),
+      // anodised aluminium: smooth, faint machining lines, a fine sparkle
+      anod: T(256, 256, (g, w, h) => { g.fillStyle = '#d2d2d2'; g.fillRect(0, 0, w, h); for (let y = 0; y < h; y += 2) { g.fillStyle = `rgba(${R() < .5 ? '0,0,0' : '255,255,255'},${.015 + R() * .03})`; g.fillRect(0, y, w, 1); }
+        specks(g, w, h, 5000, '0,0,0', '255,255,255', .07); blots(g, w, h, 10, 30, 100, '255,255,255', .05); }, [6, 6]),
+      anodD: D(256, 256, (g, w, h) => { g.fillStyle = 'rgb(128,120,255)'; g.fillRect(0, 0, w, h); specks(g, w, h, 4000, '128,80,255', '128,160,255', .6); blots(g, w, h, 12, 30, 90, '128,175,255', .4); }, [6, 6]),
+      // walnut: wavy grain with darker late-wood lines, ray flecks and open pores; also its own relief
+      wood: T(S, S, (g, w, h) => { const gr = g.createLinearGradient(0, 0, 0, h); gr.addColorStop(0, '#8a5630'); gr.addColorStop(.5, '#7a4826'); gr.addColorStop(1, '#8a5630'); g.fillStyle = gr; g.fillRect(0, 0, w, h);
+        const k1 = 2 * Math.PI / w; for (let i = 0; i < 170; i++) { const y = R() * h, a1 = 2 + R() * 7, a2 = R() * 2.5, p1 = R() * 7, p2 = R() * 7, f1 = 1 + Math.floor(R() * 2), f2 = 3 + Math.floor(R() * 4), dark = R() < .62;
+          g.strokeStyle = dark ? `rgba(48,22,8,${.12 + R() * .3})` : `rgba(190,128,70,${.08 + R() * .2})`; g.lineWidth = .6 + R() * (dark ? 3 : 2);
+          for (const dy of [-h, 0, h]) { g.beginPath(); for (let x = 0; x <= w; x += 8) { const yy = y + dy + Math.sin(x * k1 * f1 + p1) * a1 + Math.sin(x * k1 * f2 + p2) * a2; x ? g.lineTo(x, yy) : g.moveTo(x, yy); } g.stroke(); } }
+        for (let i = 0; i < 4000; i++) { g.fillStyle = `rgba(30,12,4,${.15 + R() * .3})`; g.fillRect(R() * w, R() * h, 2 + R() * 6, 1); }
+        for (let i = 0; i < 260; i++) { g.fillStyle = `rgba(220,160,100,${.06 + R() * .1})`; g.fillRect(R() * w, R() * h, 4 + R() * 10, 2 + R() * 2); }
+        blots(g, w, h, 14, 60, 200, '40,16,4', .12); blots(g, w, h, 10, 60, 160, '255,200,140', .06); }, [2.5, 2.5]),
+      // carbon fibre, 2/2 twill: each tow shaded round its width with fine filaments along it
+      carbon: T(256, 256, (g) => { const c = 16; for (let i = 0; i < 16; i++) for (let j = 0; j < 16; j++) { const hz = (i + j) % 4 < 2, x = i * c, y = j * c, gr = hz ? g.createLinearGradient(0, y, 0, y + c) : g.createLinearGradient(x, 0, x + c, 0);
+          gr.addColorStop(0, '#2a2a2f'); gr.addColorStop(.4, '#55555d'); gr.addColorStop(.55, '#606068'); gr.addColorStop(1, '#2e2e33'); g.fillStyle = gr; g.fillRect(x, y, c, c);
+          g.fillStyle = 'rgba(0,0,0,.18)'; for (let f = 1; f < c; f += 2) hz ? g.fillRect(x, y + f, c, .5) : g.fillRect(x + f, y, .5, c); } }, [14, 14]),
+      // digital camouflage over a teal base, lightly worn
+      camo: T(256, 256, (g, w, h) => { g.fillStyle = '#2a8a75'; g.fillRect(0, 0, w, h); const cs = ['#3ee6c1', '#1b5248', '#1f2a33', '#30b496'];
+        for (const [n, s] of [[90, 24], [160, 16], [260, 8]]) for (let i = 0; i < n; i++) { g.fillStyle = cs[Math.floor(R() * 4)]; const x = Math.floor(R() * w / 8) * 8, y = Math.floor(R() * h / 8) * 8, bw = s * (1 + Math.floor(R() * 2)), bh = s; wrap(w, h, x, y, (px, py) => g.fillRect(px, py, bw, bh)); }
+        specks(g, w, h, 6000, '0,0,0', '255,255,255', .12); scratches(g, w, h, 18, '210,240,235', .35, 6, 30); }, [7, 7]),
+      // vent holes: chamfered, with a lit lower lip
+      holes: T(128, 128, (g, w, h) => { g.fillStyle = '#50545c'; g.fillRect(0, 0, w, h); specks(g, w, h, 1500, '0,0,0', '255,255,255', .1);
+        for (const [x, y] of [[32, 32], [96, 32], [32, 96], [96, 96]]) { const gr = g.createRadialGradient(x, y + 2, 10, x, y, 22); gr.addColorStop(0, '#08090b'); gr.addColorStop(.7, '#08090b'); gr.addColorStop(.82, '#9aa0aa'); gr.addColorStop(1, 'rgba(80,84,92,0)'); g.fillStyle = gr; g.beginPath(); g.arc(x, y, 22, 0, 7); g.fill(); } }, [1, 10]),
     };
     return GTX;
   }
+  // battle-worn paint in a gun's own colour: chipped through to bare metal on corners and high spots, with scuffs
+  const WORN = {};
+  function wornTex(col) {
+    if (WORN[col]) return WORN[col];
+    const S = 512, chips = [], c = new THREE.Color(col);
+    for (let i = 0; i < 46; i++) { const cx = R() * S, cy = R() * S, n = 3 + Math.floor(R() * 8); for (let j = 0; j < n; j++) { const x = cx + (R() - .5) * 46, y = cy + (R() - .5) * 20, r = .8 + R() * (R() < .1 ? 6 : 2.6), k = 6 + Math.floor(R() * 4), pts = []; for (let q = 0; q < k; q++) { const a = q / k * TAU, rr = r * (.5 + R() * .7); pts.push([x + Math.cos(a) * rr * 1.5, y + Math.sin(a) * rr]); } chips.push(pts); } }
+    const scuffs = []; for (let i = 0; i < 46; i++) scuffs.push([R() * S, R() * S, 8 + R() * 50, (R() - .5) * .6]);
+    const draw = (g, paint, metal, scuff, rim) => { g.fillStyle = paint; g.fillRect(0, 0, S, S); for (const [x, y, l, t] of scuffs) for (const dx of [-S, 0, S]) for (const dy of [-S, 0, S]) { g.strokeStyle = scuff; g.lineWidth = 1; g.beginPath(); g.moveTo(x + dx, y + dy); g.lineTo(x + dx + Math.cos(t) * l, y + dy + Math.sin(t) * l); g.stroke(); }
+      for (const pts of chips) for (const dx of [-S, 0, S]) for (const dy of [-S, 0, S]) { g.beginPath(); pts.forEach(([x, y], i) => i ? g.lineTo(x + dx, y + dy) : g.moveTo(x + dx, y + dy)); g.closePath(); if (rim) { g.strokeStyle = rim; g.lineWidth = 1.6; g.stroke(); } g.fillStyle = metal; g.fill(); } };
+    const hex = '#' + c.getHexString(), map = canvasTex(S, S, (g, w, h) => { draw(g, hex, '#9a9ea6', 'rgba(255,255,255,.3)', 'rgba(0,0,0,.35)');
+      g.globalCompositeOperation = 'multiply'; const n = canvasTex.noise || (canvasTex.noise = (() => { const cv = document.createElement('canvas'); cv.width = cv.height = 256; const q = cv.getContext('2d'); q.fillStyle = '#fff'; q.fillRect(0, 0, 256, 256); for (let i = 0; i < 9000; i++) { const v = 205 + R() * 50 | 0; q.fillStyle = `rgb(${v},${v},${v})`; q.fillRect(R() * 256 | 0, R() * 256 | 0, 1, 1); } return cv; })());
+      for (const x of [0, 256]) for (const y of [0, 256]) g.drawImage(n, x, y); g.globalCompositeOperation = 'source-over'; }, [3, 3]);
+    const data = canvasTex(S, S, g => draw(g, 'rgb(200,225,50)', 'rgb(90,110,170)', 'rgba(170,150,120,.8)', 'rgb(150,230,50)'), [3, 3]); data.encoding = THREE.LinearEncoding;
+    return WORN[col] = { map, data };
+  }
+  const FINISH = { knife: 'cera', pip: 'cera', stub: 'wood', wasp: 'cera', quill: 'cera', hammer: 'wood', gnat: 'anod', hornet: 'camo', breaker: 'wood', thresher: 'worn', mako: 'anod', paladin: 'worn', vesper: 'carbon', lancer: 'cera', kite: 'cera', longbow: 'carbon', torrent: 'worn' };
+  const BUMP = .0007;   // relief strength; small, because a gun is small
   function gmats(k) {
     if (GMAT[k]) return GMAT[k];
     const W = GUNS[k], T = gunTex();
-    const std = (o, ei = 1) => { const m = new THREE.MeshStandardMaterial(o); if (X && X.env) { m.envMap = X.env; m.envMapIntensity = ei; } return m; };
+    const env = (m, ei) => { if (X && X.env) { m.envMap = X.env; m.envMapIntensity = ei; } return m; };
+    const std = (o, ei = 1) => env(new THREE.MeshStandardMaterial(o), ei);
     const basic = c => new THREE.MeshBasicMaterial({ color: c, toneMapped: false });
-    const fin = {
-      pip: std({ color: '#8f99a6', map: T.cera, roughness: .5, metalness: .35 }),
-      hornet: std({ color: '#ffffff', map: T.camo, roughness: .62, metalness: .1 }, .5),
-      breaker: std({ color: '#ffffff', map: T.wood, roughness: .45, metalness: 0 }, .45),
-      lancer: std({ color: '#d4323e', map: T.cera, roughness: .42, metalness: .3 }),
-      longbow: std({ color: '#9468dc', map: T.carbon, roughness: .3, metalness: .45 }, 1.1),
-      stub: std({ color: '#ffffff', map: T.wood, roughness: .45 }, .45), hammer: std({ color: '#ffd9a8', map: T.wood, roughness: .4 }, .5),
-      vesper: std({ color: '#d0509a', map: T.carbon, roughness: .3, metalness: .45 }, 1.1),
-    }[k] || std({ color: W.col, map: T.cera, roughness: .45, metalness: .3 });
+    const col = { pip: '#8f99a6', lancer: '#d4323e', longbow: '#9468dc', vesper: '#d0509a', hammer: '#ffd9a8', stub: '#ffffff', breaker: '#ffffff' }[k] || W.col, fk = FINISH[k] || 'cera';
+    let fin;
+    if (fk === 'wood') fin = std({ color: col, map: T.wood, bumpMap: T.wood, bumpScale: BUMP * 1.4, roughness: .42, metalness: 0 }, .5);
+    else if (fk === 'carbon') fin = env(new THREE.MeshPhysicalMaterial({ color: col, map: T.carbon, bumpMap: T.carbon, bumpScale: BUMP * .8, roughness: .4, metalness: .3, clearcoat: 1, clearcoatRoughness: .07 }), .9);
+    else if (fk === 'camo') fin = std({ color: '#ffffff', map: T.camo, roughnessMap: T.ceraD, bumpMap: T.ceraD, bumpScale: BUMP * .5, roughness: .75, metalness: .08 }, .5);
+    else if (fk === 'anod') fin = std({ color: col, map: T.anod, roughnessMap: T.anodD, roughness: .55, metalness: .55 }, .9);
+    else if (fk === 'worn') { const wt = wornTex(col); fin = std({ color: '#ffffff', map: wt.map, roughnessMap: wt.data, metalnessMap: wt.data, bumpMap: wt.data, bumpScale: BUMP * 1.2, roughness: 1, metalness: 1 }, .7); }
+    else fin = std({ color: col, map: T.cera, roughnessMap: T.ceraD, bumpMap: T.ceraD, bumpScale: BUMP * .5, roughness: .62, metalness: .25 }, .6);
+    const metalish = (c, r, mt, ei) => std({ color: c, map: T.brushed, roughnessMap: T.metalD, bumpMap: T.metalD, bumpScale: BUMP * .4, metalness: mt, roughness: r }, ei);
     const M2 = GMAT[k] = {
       fin,
-      metal: std({ color: '#3b4049', map: T.brushed, metalness: .85, roughness: .32 }),
-      dark: std({ color: '#1d2026', map: T.brushed, metalness: .7, roughness: .42 }),
-      steel: std({ color: '#a2a9b3', map: T.brushed, metalness: .95, roughness: .2 }, 1.2),
-      poly: std({ color: '#2b2e35', map: T.stipple, roughness: .86, metalness: .05 }, .4),
-      rubber: std({ color: '#121316', roughness: .95 }, .2),
-      heat: std({ color: '#ffffff', map: T.holes, metalness: .7, roughness: .4 }),
-      acc: std({ color: W.col, roughness: .4, metalness: .3 }),
-      brass: std({ color: '#d9a441', metalness: 1, roughness: .26 }, 1.3),
+      metal: metalish('#3b4049', .42, .85, 1),
+      dark: metalish('#1d2026', .52, .7, 1),
+      steel: metalish('#a2a9b3', .26, .95, 1.2),
+      poly: std({ color: '#2b2e35', map: T.stipple, bumpMap: T.stipple, bumpScale: BUMP, roughness: .86, metalness: .05 }, .4),
+      rubber: std({ color: '#1b1c20', map: T.knurl, bumpMap: T.knurl, bumpScale: BUMP * 1.2, roughness: .95 }, .2),
+      heat: std({ color: '#ffffff', map: T.holes, bumpMap: T.holes, bumpScale: BUMP * 2, metalness: .7, roughness: .4 }),
+      acc: std({ color: W.col, map: T.anod, roughnessMap: T.anodD, roughness: .5, metalness: .4 }, .8),
+      brass: std({ color: '#d9a441', map: T.brushed, metalness: 1, roughness: .26 }, 1.3),
       shell: std({ color: '#b8262a', roughness: .5 }, .5),
       lens: std({ color: '#0d2633', metalness: 1, roughness: .02, emissive: k === 'longbow' ? '#3a1866' : '#0b3550', emissiveIntensity: .8 }, 2),
       glass: std({ color: '#9fdcff', transparent: true, opacity: .2, metalness: 1, roughness: 0, depthWrite: false }, 2),
       glow: basic(W.col), tritium: basic('#7dff9a'), red: basic('#ff2a3a'), lamp: basic('#fff4d6'),
-      glove: std({ color: '#24272e', map: T.stipple, roughness: .9 }, .3),
-      sleeve: std({ color: '#323a4a', roughness: .8 }, .3),
+      glove: std({ color: '#24272e', map: T.stipple, bumpMap: T.stipple, bumpScale: BUMP * .7, roughness: .9 }, .3),
+      sleeve: std({ color: '#323a4a', map: T.knurl, roughness: .8 }, .3),
     };
     // plain colours are read as linear light, which washes strong colours out: convert the ones meant to be seen as picked
     for (const q of ['fin', 'acc', 'glow', 'tritium', 'red', 'lamp', 'sleeve', 'glove', 'shell', 'brass']) M2[q].color.convertSRGBToLinear();
-    M2.fin.envMapIntensity = Math.min(M2.fin.envMapIntensity, .6);
+    M2.fin.envMapIntensity = Math.min(M2.fin.envMapIntensity, fk === 'carbon' ? .9 : .6);
     return M2;
   }
   // merge the plain meshes under a group into one mesh per material, so a gun is a handful of draw calls, not hundreds
@@ -112,7 +173,7 @@
       for (const s of [1, -1]) add(new THREE.PlaneGeometry(w, h), mat, sx * s, y, z, 0, s * Math.PI / 2, 0);
     };
     // vented shroud: holes kept round by scaling the pattern to the tube (8 rows round it, one every 2.4 cm along it)
-    const vent = L => { const key = 'vent' + Math.round(L * 1000); if (!GMAT[key]) { const t = gunTex().holes.clone(); t.needsUpdate = true; t.repeat.set(4, Math.max(2, Math.round(L / .024))); GMAT[key] = new THREE.MeshStandardMaterial({ color: '#ffffff', map: t, metalness: .7, roughness: .4, envMap: X && X.env, envMapIntensity: .8 }); } return GMAT[key]; };
+    const vent = L => { const key = 'vent' + Math.round(L * 1000); if (!GMAT[key]) { const t = gunTex().holes.clone(); t.needsUpdate = true; t.repeat.set(4, Math.max(2, Math.round(L / .024))); GMAT[key] = new THREE.MeshStandardMaterial({ color: '#ffffff', map: t, bumpMap: t, bumpScale: BUMP * 2, metalness: .7, roughness: .4, envMap: X && X.env, envMapIntensity: .8 }); } return GMAT[key]; };
     const group = (x, y, z, rx = 0) => { const g = new THREE.Group(); g.position.set(x, y, z); g.rotation.x = rx; g.userData.p0 = g.position.clone(); G.add(g); return g; };
     // sights and gadgets
     const holo = (z, y) => {   // a window sight: hooded frame, glass, a ring reticle

diff --git a/pulsebox/src/games/duelpoint/MASTER_PROMPT.md b/pulsebox/src/games/duelpoint/MASTER_PROMPT.md
@@ -180,3 +180,4 @@ damage tables, the economy, the knife, and whole bot matches for errors, stuck b
 - **Vented shrouds scale their hole pattern to their length,** decals sit forward of the ejection port and the round counter, so nothing overlaps.
 - **Phones play full-screen inside the hub.** On a touch device the hub drops its 16:9 strip and gives the game the whole screen, turned sideways if the phone is upright, with a close button top right.
 - **Gate opening moved two rows** so neither spawn can see the other or the site at the start of a round.
+- **Each gun has its own finish,** drawn as seamless 512-pixel textures with a matching relief/shine map: cerakote (Pip, Wasp, Quill, Lancer, Kite), anodised aluminium (Gnat, Mako), digital camo (Hornet), walnut (Stub, Hammer, Breaker), clear-coated carbon twill (Vesper, Longbow) and battle-worn paint chipped to bare metal (Thresher, Paladin, Torrent). Steel is brushed and scratched, polymer stippled, rubber knurled.
